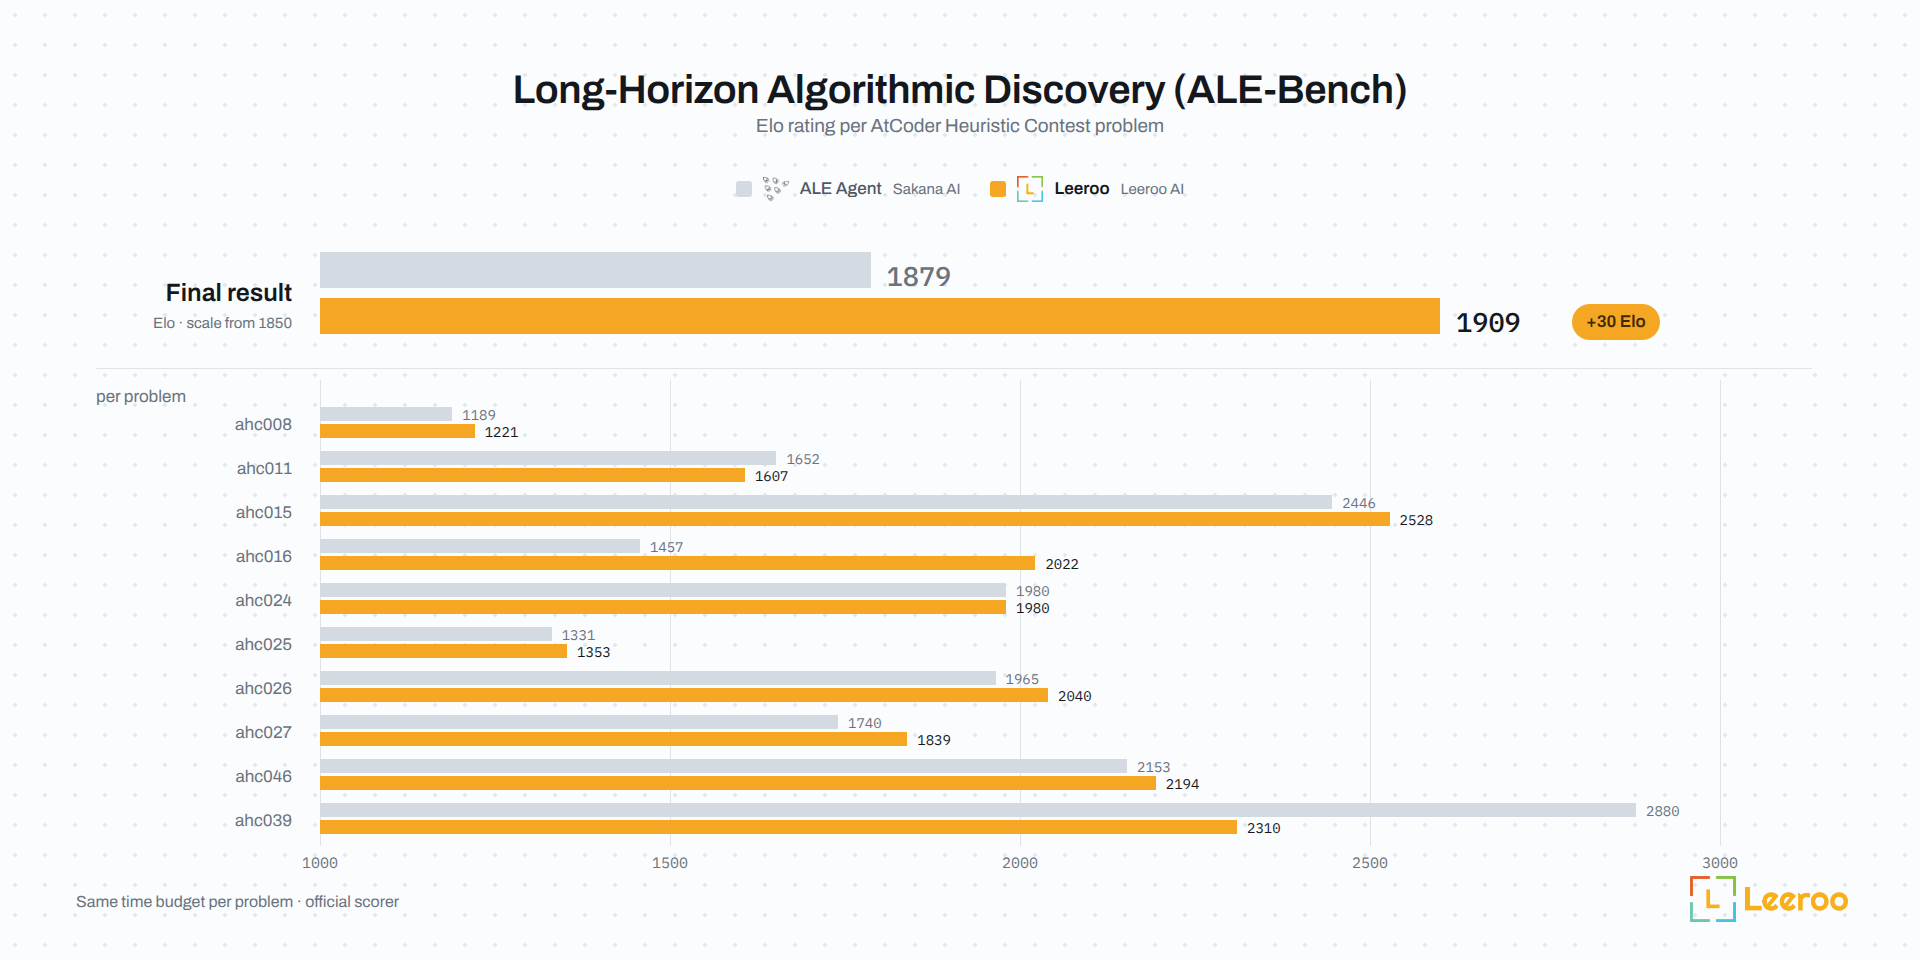
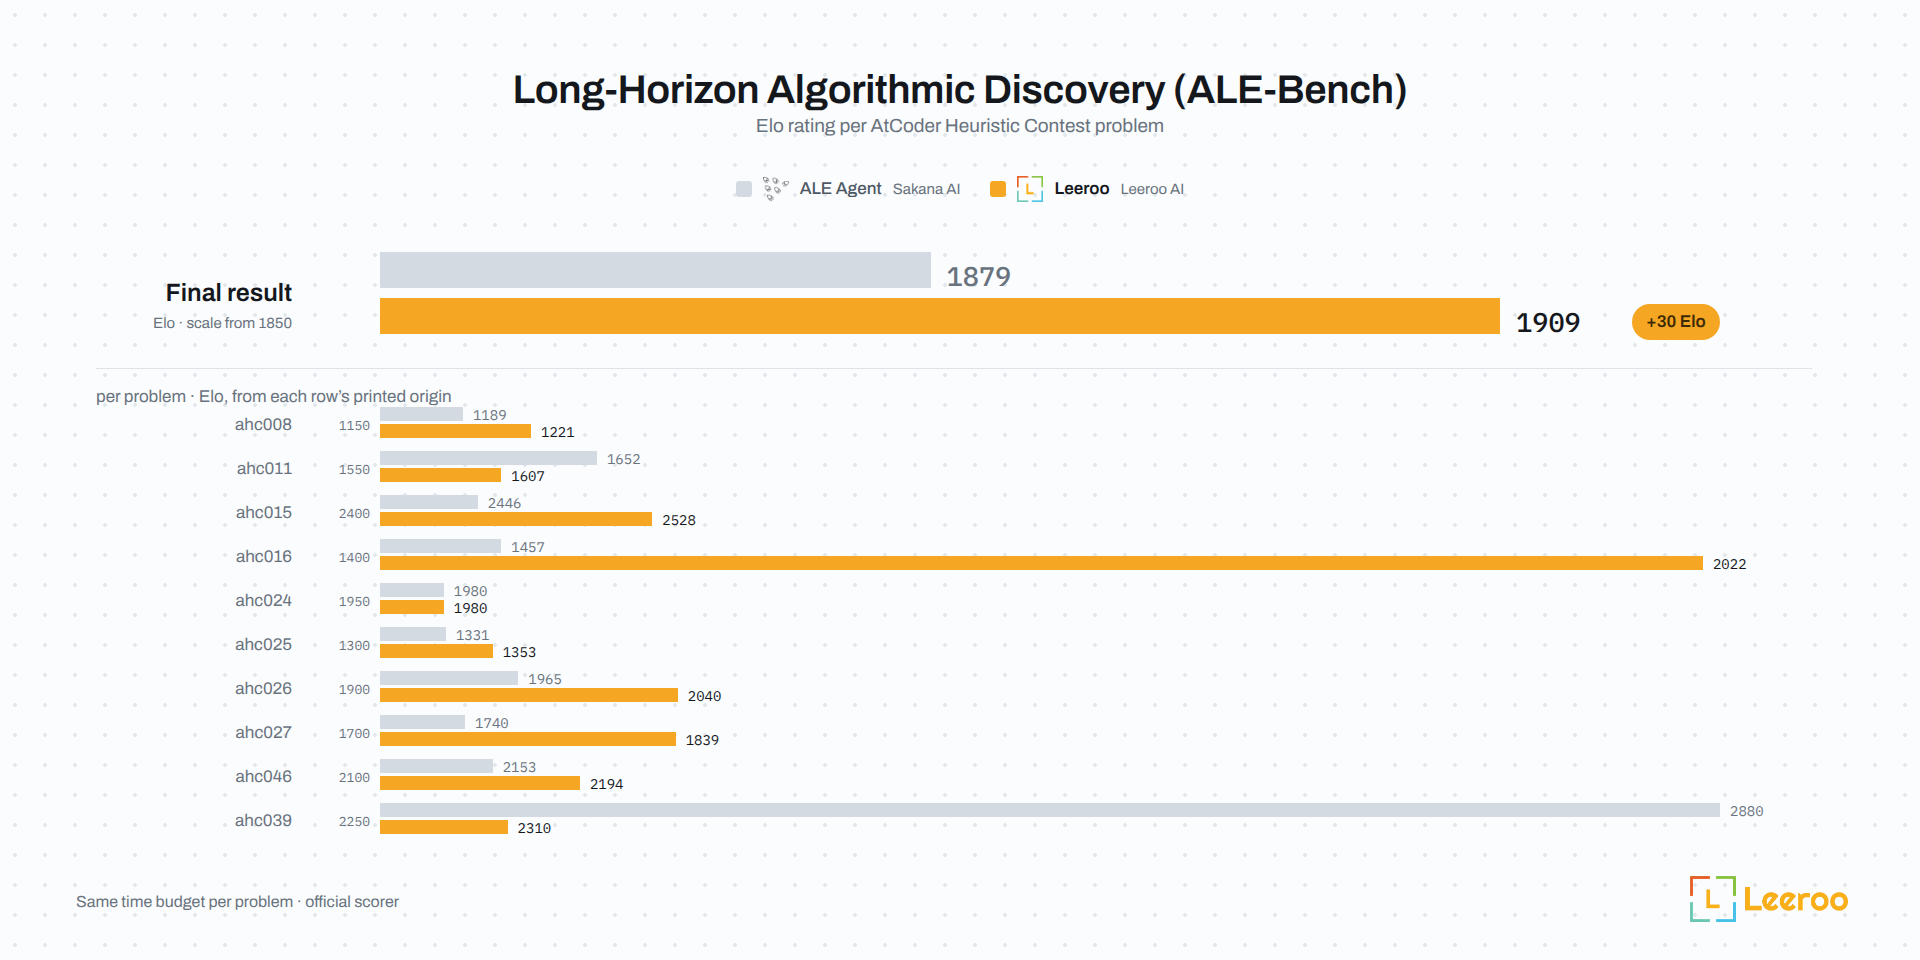
docs(images): every ALE row from its own printed origin, one gap scale
The per-problem breakdown extended the headline's treatment to all ten
rows, with one decision that mattered: cutting each row's common length
must not also rescale its gap. Normalizing every row to its own winner —
the RelBench recipe — would have rendered ahc025's +22 exactly like
ahc016's +565, ten copies of the same picture. So each row starts at its
own origin (the largest multiple of 50 at least 30 Elo under the row's
weaker result, printed at the left edge of its bars) while all ten share
one Elo-per-pixel scale, sized by the widest row. The common length is
gone; the gaps keep their relative sizes; the printed values stay
absolute.

That deletes the absolute 1000-3000 axis outright — its gridlines, its
tick row, and the ex() mapping had no remaining referent. The headline
keeps its magnified scale from the previous commit, still declared under
its label; the two ragged bar edges now share one left margin.

The ALE README gains the full per-problem table, since the figure no
longer offers an axis to read lengths against — only gaps and printed
numbers — and the alt texts describe the new geometry.

Claude-Session: https://claude.ai/code/session_01S3uuGR1qKXt9L6QY3sjjQR

diff --git a/benchmarks/ale/README.md b/benchmarks/ale/README.md
@@ -5,11 +5,28 @@ This module provides integration with [ALE-Bench](https://github.com/SakanaAI/AL
 Kapso achieved **#1 on ALE-Bench**: a final rating of **1909 Elo** against ALE Agent's 1879
 (+30 Elo), under the same time budget per problem and the official scorer.
 
-![ALE-Bench: Kapso's final rating of 1909 Elo against ALE Agent's 1879, the headline row drawn from a truncated axis starting at 1850, above a per-problem breakdown of ten AtCoder Heuristic Contest problems on an absolute 1000 to 3000 Elo axis](../../docs/images/ale-bench.png)
+![ALE-Bench: Kapso's final rating of 1909 Elo against ALE Agent's 1879, every row drawn from its own printed Elo origin, above a per-problem breakdown of ten AtCoder Heuristic Contest problems whose bar gaps share one scale](../../docs/images/ale-bench.png)
 
-The chart's Final result row is drawn from a truncated axis — Elo 1850, printed under the row
-label — because on the absolute 1000–3000 scale of the per-problem breakdown below it, the two
-final ratings are 1.5% apart and render as the same bar.
+| Problem | ALE Agent | Kapso | Δ Elo |
+|---|---|---|---|
+| **Final result** | 1879 | **1909** | **+30** |
+| ahc008 | 1189 | 1221 | +32 |
+| ahc011 | 1652 | 1607 | −45 |
+| ahc015 | 2446 | 2528 | +82 |
+| ahc016 | 1457 | 2022 | +565 |
+| ahc024 | 1980 | 1980 | 0 |
+| ahc025 | 1331 | 1353 | +22 |
+| ahc026 | 1965 | 2040 | +75 |
+| ahc027 | 1740 | 1839 | +99 |
+| ahc046 | 2153 | 2194 | +41 |
+| ahc039 | 2880 | 2310 | −570 |
+
+Every row of the chart is drawn from its own truncated axis, printed at the row's left edge,
+because Elo differences live far from zero: on an absolute 1000–3000 scale the final ratings
+are 1.5% apart and render as the same bar. The per-problem rows share one Elo-per-pixel
+scale, so gap sizes stay comparable across problems — a +22 never renders like a +565; the
+Final result row uses a magnified scale of its own (from Elo 1850, printed under its label).
+The table is the same result without any axis.
 
 ## Prerequisites
 

diff --git a/README.md b/README.md
@@ -45,7 +45,7 @@
 
 - **#1 on [ALE-Bench](benchmarks/ale/README.md)**: KAPSO achieved top ranking on long-horizon algorithmic discovery problems (ALE Benchmark).
 
-  <img src="https://raw.githubusercontent.com/Leeroo-AI/kapso/main/docs/images/ale-bench.png" alt="ALE-Bench: Kapso reaches a final rating of 1909 Elo against ALE Agent's 1879, that headline row drawn from a truncated axis starting at 1850, with the per-problem breakdown across ten AtCoder Heuristic Contest problems on an absolute 1000 to 3000 Elo axis below" width="820">
+  <img src="https://raw.githubusercontent.com/Leeroo-AI/kapso/main/docs/images/ale-bench.png" alt="ALE-Bench: Kapso reaches a final rating of 1909 Elo against ALE Agent's 1879, above a breakdown across ten AtCoder Heuristic Contest problems; every row is drawn from its own printed Elo origin, and the per-problem bar gaps share one scale" width="820">
 
 ## What is KAPSO?
 
